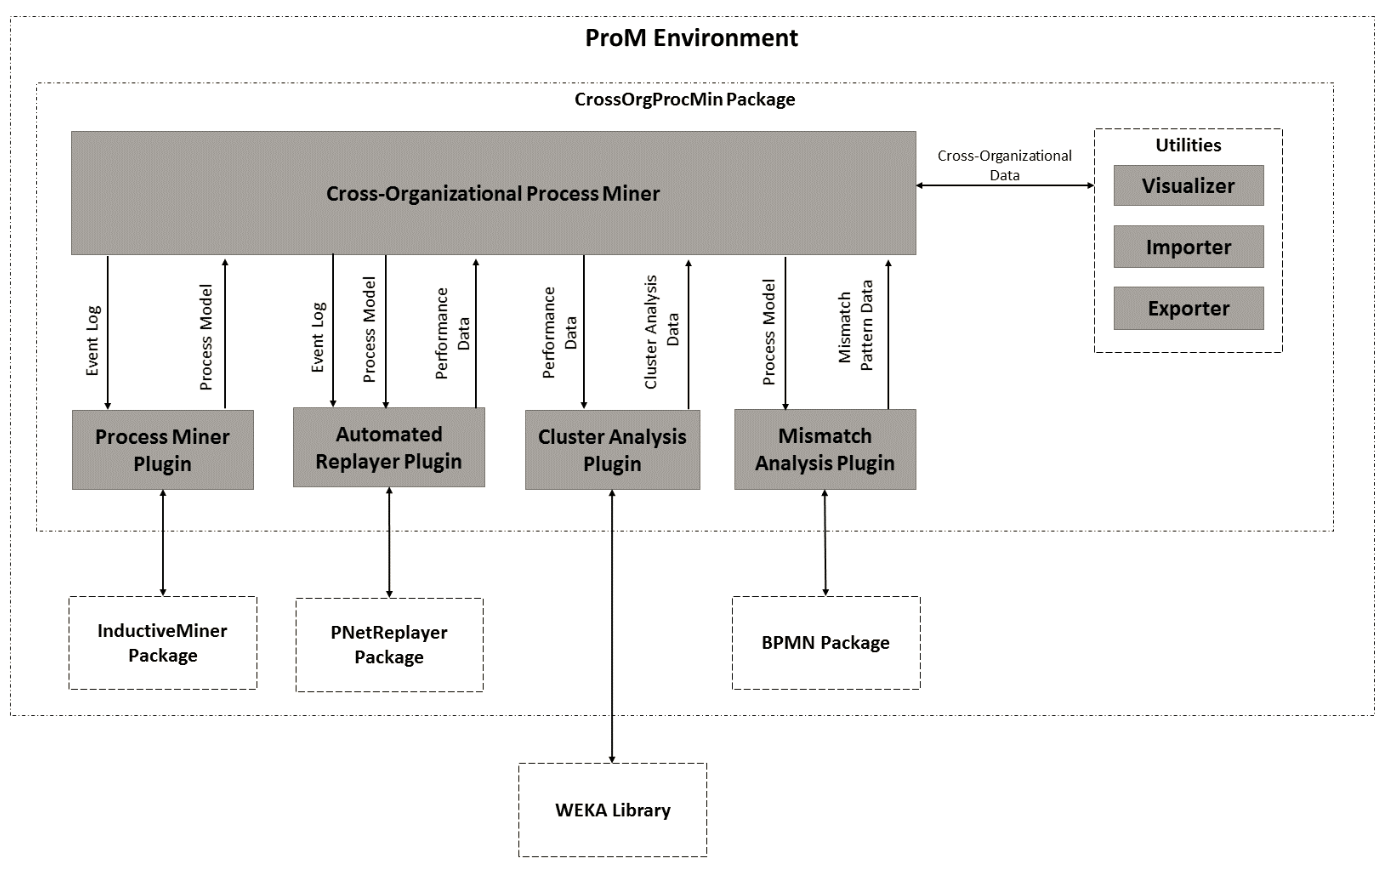
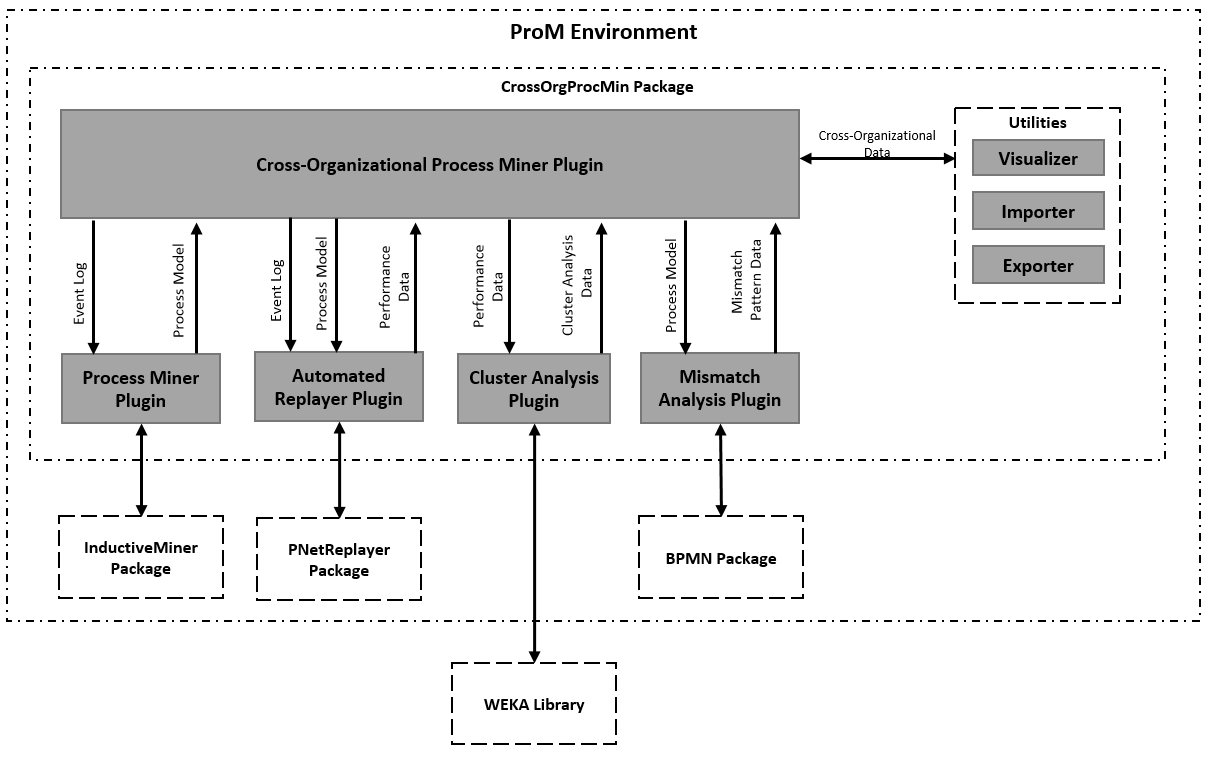
no message

diff --git a/4_methodology/methodology.tex b/4_methodology/methodology.tex
@@ -406,13 +406,11 @@ This stage of methodology can be visualized as gathering inputs of mismatch patt
 \end{figure}
 
 \pagebreak
-
-
 \section{Implementation in ProM Framework}
 \label{sec:implementation}
-Methodology of this thesis study is implemented in ProM Framework \cite{verbeek2010prom}, which is an extensible framework that supports a wide variety of process mining techniques in the form of plugins. ProM is an open source framework for process mining algorithms which provides a platform to users and developers. Aim of this framework is to create a standard process mining platform that is accepted in industry and academia with an active community. Approach of this thesis study is implemented with its each stage as a standalone plugin that enables extensions for further studies. Developed set of plugins are packaged with the name of \textit{CrossOrgProcMin} and it is available in the latest version of ProM release. 
+Methodology of this thesis study is implemented in ProM \cite{verbeek2010prom}, which is an extensible framework that supports a wide variety of process mining techniques in form of plugins. ProM is an open source framework for process mining algorithms which provides a platform to users and developers. Aim of this framework is to create a standard process mining platform that is accepted in industry and academia with an active community. Approach of this thesis study is implemented with its each stage as a standalone plugin that enables extensions for further studies. Developed set of plugins are packaged with the name of \textit{CrossOrgProcMin}Text\footnote{\url{http://www.promtools.org/prom6/packages/CrossOrgProcMin/}} and it is available in the latest version of ProM release. 
 
-Implementation details are presented from two perspectives in this section. Firstly, software architecture of methodology implementation will be explained with the relationships and dependencies with other plug-ins and ProM framework. Then, user experience perspective will be presented to show how an end user of this methodology can provide inputs, make analysis and gather results. 
+Implementation details are presented from two perspectives in this section. Firstly, software architecture of implementation will be explained with the relationships and dependencies with the other plug-ins and ProM framework. Then, user experience perspective will be presented to show how the end user of this methodology can provide inputs, make analysis and gather results. 
 
 \subsection{Software Architecture}
 \label{subsec:architecture}
@@ -425,19 +423,19 @@ Approach of this study is divided into standalone stages where inputs and output
 \end{figure}
 
 \begin{description}
-  \item[Cross-Organizational Process Miner] is the core plugin which handles management and data flow between other plugins. It basically calls each other plugin and gathers outputs from them to proceed to next plugins. 
+  \item[Cross-Organizational Process Miner Plugin] is the core plugin which handles management and data flow between other plugins. It basically calls each other plugin and gathers outputs from them to proceed to next stages. 
   \item[Process Miner Plugin] is the implementation of Section~\ref{sec:process-model-mining} where \textit{Inductive Miner} \cite{leemans2014discoveringinfrequent} package in the ProM environment is utilized. 
-  \item[Automated Replayer Plugin] is developed to execute the approach in Section~\ref{subsec:replay-and-performance-summary} and it replays the event logs over process models with the minimum manual user input using the libraries in \textit{PNReplayer} package \cite{adriansyah2011towards}. 
-  \item[Cluster Analysis Plugin] is developed to cluster the organizations based on their performance indicators as presented in Section~\ref{subsec:performance-indicator-clustering} and this plugin uses WEKA libraries \cite{hall2009} which are external to the ProM environment. 
+  \item[Automated Replayer Plugin] is developed to execute the approach in Section~\ref{subsec:replay-and-performance-summary} and it replays the event logs over process models  using the libraries in \textit{PNReplayer} package \cite{adriansyah2011towards}. 
+  \item[Cluster Analysis Plugin] aims to cluster the organizations based on their performance indicators as presented in Section~\ref{subsec:performance-indicator-clustering} and this plugin uses WEKA libraries \cite{hall2009} which are external to the ProM environment. 
   \item[Mismatch Analysis Plugin] is developed to discover differences between the process models as explained in Section~\ref{sec:mismatch-pattern-analysis}. This plugin is developed from scratch since there is no implementation of mismatch patterns \cite{dijkman2007mismatch} in ProM framework.
-  \item[Utilities] are developed to handle input and output data to the developed set of plugins. Import and export libraries are coded to enable data specific persistence in ProM framework for these plugins. Visualization libraries are developed to represent the recommendation output to the end user in ProM screens.
+  \item[Utilities] are developed to handle data operations of the developed set of plugins. Import and export libraries are used to enable data specific persistence in ProM framework for these plugins. Visualization libraries are developed to represent the recommendation output to the end user in ProM screens.
 \end{description}   
 
 \subsection{User Experience}
 \label{subsec:user-experience}
 Approach proposed in this study is a composition of different stages and it is very difficult for an end user to be capable of each step's details. Therefore, the plugins are developed with the high level of automation by minimizing the manual inputs required. In addition, each reporting step is well-documented so that user can easily understand and provide inputs without help of another guide. In this section, example screens will be presented to explain the story of end user for the developed plugins. Assuming the user is familiar with the ProM framework, only the steps specific to the developed plugins are illustrated. Intermediate steps are included in Appendix~\ref{sec:appendix-methodology-steps} and result screens are presented in this section.
 
-When the user selects a number of event logs and starts \textit{Cross-Organizational Process Miner}, an informative screen about the plugin and the following steps are presented to the user as shown in Figure~\ref{fig:information-screen}. Following this screen, user is required to provide names for organizations in the event logs in a very simple form as can be seen on Figure~\ref{fig:organization-name-screen}. This step is added to provide user-friendly reports with the names provided in the following stages. In the stage of process mining, for each event log or namely organization, user is required to provide a noise threshold and naming convention which is illustrated in Figure~\ref{fig:proc-miner-threshold-screen} and this screen is an extension of \textit{Inductive Miner} \cite{leemans2014discoveringinfrequent} screens. Following this, the last user input is required for matching activity names in the event logs to process models as shown in Figure~\ref{fig:automated-replayer-screen} and this screen is derived from \textit{PNReplayer} package \cite{adriansyah2011towards} screens. When replay stage is completed, clustering of organizations based on performance indicators takes place and user input is required for selecting the appropriate cluster size (k) with the SSE values plotted as shown in Figure~\ref{fig:select-cluster-size-screen}. 
+When the user selects a number of event logs and starts \textit{Cross-Organizational Process Miner}, an informative screen about the plugin and the following steps are presented to the user as shown in Figure~\ref{fig:information-screen}. Following this screen, user is required to provide names for organizations in the event logs in a very simple form as can be seen on Figure~\ref{fig:organization-name-screen}. This step is added to provide user-friendly reports in the following stages with the names provided. In the stage of process mining, for each organization, user is expected  to provide a noise threshold and naming convention which is illustrated in Figure~\ref{fig:proc-miner-threshold-screen} and this screen is an extension of \textit{Inductive Miner} \cite{leemans2014discoveringinfrequent} screens. Following this, in the replay stage, user input is required for matching activity names in the event logs to process models as shown in Figure~\ref{fig:automated-replayer-screen} and this screen is derived from \textit{PNReplayer} package \cite{adriansyah2011towards} screens. When replay stage is completed, clustering of organizations based on performance indicators starts and user input is required for selecting the appropriate cluster size \textit{(k)} with the SSE values plotted as shown in Figure~\ref{fig:select-cluster-size-screen}. 
 \begin{figure}
 	\centering
 	\includegraphics[width=\textwidth]{4_methodology/select-cluster-size-screen}
@@ -445,20 +443,20 @@ When the user selects a number of event logs and starts \textit{Cross-Organizati
   \label{fig:select-cluster-size-screen}
 \end{figure}
 
-With the successful execution of plugin, recommendation outputs are presented to the end user at the end. Recommendations are visualized in two ways to create comparable outputs with and without performance clustering. When the user selects to check mismatch patterns without performance clustering, an organization should be selected at the left top of the screen in Figure~\ref{fig:result-without-clustering-screen}. For the selected organization, all other organizations are compared and mismatch patterns are listed in separate tabs as shown in the main panel of Figure~\ref{fig:result-without-clustering-screen}. Main idea behind adding this visualization is to provide an insight to user that how much mismatch patterns can be discovered between organizations.
+With the successful execution of plugin, recommendation outputs are presented to the end user. Recommendations are visualized in two ways to create comparable outputs with and without performance clustering. When the user selects to check mismatch patterns without performance clustering, an organization should be selected at the left top of the screen in Figure~\ref{fig:result-without-clustering-screen}. For the selected organization, all other organizations are compared and mismatch patterns are listed in separate tabs as shown in the main panel of Figure~\ref{fig:result-without-clustering-screen}. Main idea behind adding this visualization is to provide an insight to user that how much mismatch patterns can be discovered between organizations when no performance clustering is applied.
 
 \begin{figure}
 	\centering
 	\includegraphics[width=\textwidth]{4_methodology/result-without-clustering-screen}
-	\caption{ Mismatch Patterns without Clustering Screen of Cross-Organizational Process Miner Plugin}
+	\caption{ Mismatch Patterns without Performance Clustering Screen of Cross-Organizational Process Miner Plugin}
   \label{fig:result-without-clustering-screen}
 \end{figure}
 
-When the user selects to check mismatch patterns with performance clustering, in addition to organization an \textit{performance difference threshold} should be selected. For the selected organization's cluster, all performance indicators are listed as tabs in the main panel as visualized in Figure~\ref{fig:result-with-clustering-screen}. For each performance indicator, difference percentages between clusters are tabulated and highlighted if there is any other cluster perform better than the threshold. For the other clusters performing better than threshold, mismatch patterns between the organizations of these clusters are listed in the second level tabs. This visualization aims to list mismatch patterns for an organization, compared to other clusters which are perform better than the difference threshold.
+When the user selects to check mismatch patterns with performance clustering, in addition to organization, \textit{performance difference threshold} should be selected. For the selected organization's cluster, all performance indicators are listed as tabs in the main panel as visualized in Figure~\ref{fig:result-with-clustering-screen}. For each performance indicator, difference percentages between clusters are tabulated and highlighted if there is any other cluster perform better than the threshold. For the other clusters performing better than threshold, mismatch patterns between the organizations of these clusters are listed in the second level tabs. This visualization aims to list mismatch patterns for an organization, compared to other clusters which are perform better than the difference threshold.
 
 \begin{figure}
 	\centering
 	\includegraphics[width=\textwidth]{4_methodology/result-with-clustering-screen}
-	\caption{ Mismatch Patterns with Clustering Screen of Cross-Organizational Process Miner Plugin}
+	\caption{ Mismatch Patterns with Performance Clustering Screen of Cross-Organizational Process Miner Plugin}
   \label{fig:result-with-clustering-screen}
 \end{figure}

diff --git a/thesis.tex b/thesis.tex
@@ -103,6 +103,7 @@
 \usepackage{booktabs}
 \usepackage{amssymb} 
 \usepackage{subcaption}
+\usepackage{url}
  
 \usepackage[linesnumbered,ruled,vlined]{algorithm2e}
 
